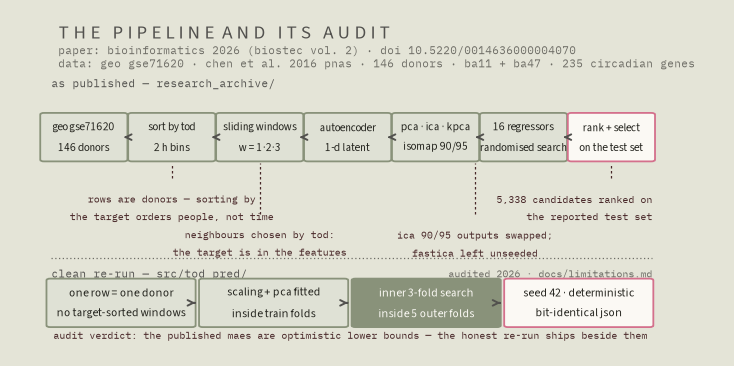
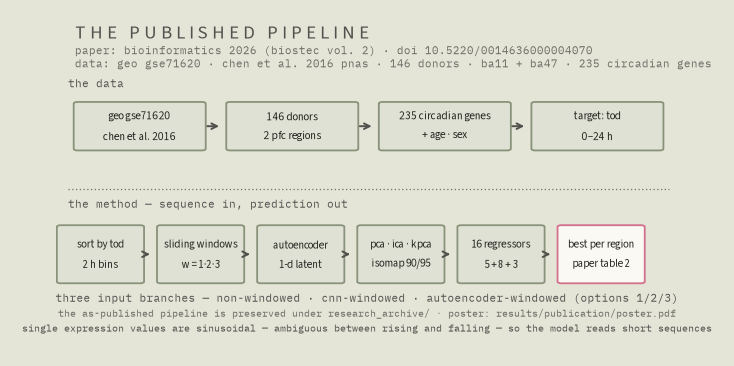
feat: tod-prediction retold as the original REU-to-publication story
Per first-author review: the entry now reports what the team built and
how it led to the BIOSTEC 2026 paper — data, the Python pipeline, the
5,338-candidate sweep, publication with the full citation, poster, and
paper-era figures. Audit framing, re-run numbers, and the v1-retired
grouping are gone from the entry; the paper's Table 2 chart replaces
the audit figures, and the published-pipeline schematic replaces the
failure-site card.

Changed region(s): [[0.03, 0.5109, 0.9591, 0.9317], [0.0599, 0.2705, 0.9292, 0.4508], [0.0599, 0.0601, 0.9591, 0.2404]]

diff --git a/projects.js b/projects.js
@@ -123,44 +123,42 @@ window.portfolioProjects = [
     result: "The takeaway: in small clinical datasets, the evaluation design is the result. Fixing the unit — 102 images that were 28 people — changed the advertised sample size by 3.6×, erased the repo's own 9.6 pp task-complexity claim to exactly 0.000, and turned a 95% feature into a documented artifact, while every architecture upgrade on top (frozen deep features, fusion, mixture of experts) measured as a null at this scale. The honest contribution is not a model; it is a protocol with its receipts — participant-grouped nested CV, hard subject-disjointness assertions, bootstrap uncertainty, and every number traceable to a regenerable artifact.",
   },
   {
-    id: "tod-prediction", title: "Genomic time of death — auditing my own published paper", subtitle: "published at 0.839 h; the clean re-run says 3.683 h — and both ship, labelled.",
+    id: "tod-prediction", title: "Predicting time of death — from REU code to BIOSTEC 2026", subtitle: "146 donors, 235 circadian genes, and the window-to-autoencoder idea that carried it into print.",
     roles: ["data", "ml"], roleLabels: ["DATA SCIENCE", "MACHINE LEARNING", "MLOPS"],
     links: [
       { label: "github repository", href: "https://github.com/oleeveeuh/gr-WPI-UMASS-TOD-Prediction" },
       { label: "published paper (biostec 2026, doi)", href: "https://doi.org/10.5220/0014636000004070" },
       { label: "paper pdf (in this repo)", href: "https://github.com/oleeveeuh/gr-WPI-UMASS-TOD-Prediction/blob/main/results/publication/BIOINFORMATICS_2026_398_CR.pdf" },
+      { label: "research archive (as-published pipeline)", href: "https://github.com/oleeveeuh/gr-WPI-UMASS-TOD-Prediction/tree/main/research_archive" },
     ],
     previewImage: "assets/tod-prediction-method-schematic.png",
-    previewAlt: "schematic of the as-published pipeline — geo donors sorted by time of death into sliding windows, an autoencoder per window, dimensionality reduction, sixteen regressors, and selection on the reported test set — with wine annotations marking the audited failure sites, above a second band showing the leakage-free re-run: one row per donor, preprocessing fitted inside training folds, a three-fold search inside five outer folds, and a deterministic seed",
+    previewAlt: "schematic of the published pipeline: geo donor data for 146 donors split into ba11 and ba47 with 235 circadian genes plus age and sex and time of death in hours as the target, then sorted by time of death into two-hour bins, cut into sliding windows of three, compressed by an autoencoder to a one-dimensional latent, reduced by pca, ica, kpca or isomap, and regressed by sixteen models down to the best configuration per region",
     technologyGroups: [
-      { v1: true, label: "retired — the as-published pipeline, preserved under research_archive/", skills: ["R (tidyverse wrangling)", "Python", "PyTorch (skorch)", "TensorFlow (CNN variants)", "XGBoost", "scikit-learn", "FastICA", "Excel result workbooks"] },
-      { label: "DATA SCIENCE", skills: ["Python", "pandas", "NumPy", "Matplotlib", "GEO GSE71620 donor data", "235-gene circadian panel", "leakage audit (docs/LIMITATIONS.md)"] },
-      { label: "MACHINE LEARNING", skills: ["scikit-learn", "Ridge", "RandomForest", "ExtraTrees", "AdaBoost", "HistGradientBoosting", "nested CV (5 outer × 3 inner)", "RandomizedSearchCV", "PCA inside folds", "windowed autoencoder (published; audited as the leak)"] },
-      { label: "MLOPS", skills: ["GitHub Actions CI", "pytest leakage guards", "seed-42 determinism", "JSON result artifacts", "CITATION.cff", "MIT license"] },
+      { label: "DATA SCIENCE", skills: ["Python", "pandas", "NumPy", "Matplotlib", "R (tidyverse wrangling)", "GEO GSE71620 donor data", "235-gene circadian panel"] },
+      { label: "MACHINE LEARNING", skills: ["scikit-learn", "PyTorch (skorch)", "TensorFlow (CNN variants)", "XGBoost", "autoencoder window encoding", "LSTM · CNN · MLP", "PCA · ICA · KPCA · Isomap", "RandomizedSearchCV", "16-regressor sweep"] },
+      { label: "MLOPS", skills: ["Excel result workbooks", "find_best_models ranking", "paper-era result figures"] },
     ],
     year: "PUBLISHED · 2026",
-    summary: "A published BIOSTEC 2026 paper predicted time of death from circadian gene expression at 0.839 h (BA11) / 1.227 h (BA47) MAE. The 2026 audit I ran while preparing the repository for public review found the validation leaked — windows over donors sorted by the target, 5,338 candidates ranked on the reported test set — so I rebuilt the evaluation without it: nested CV, seed 42, and a best of 3.683 / 4.044 h. Both result sets ship in the repo, labelled as what they are.",
+    summary: "An NSF REU summer asked whether circadian gene expression in postmortem brain can timestamp a sample. The pipeline we built — TOD-sorted windows, an autoencoder, four dimensionality-reduction methods, sixteen regressors — put the paper's temporal encoding at 0.839 h (BA11) / 1.227 h (BA47) MAE and became a BIOSTEC 2026 paper, pp. 704–715. The as-published pipeline, the result workbooks, the poster, and the paper all ship in the repository.",
     story: [
       { k: "the question · where this started", t: "can a transcriptome carry a timestamp?" },
-      { p: "Gene expression runs on a circadian clock, so in principle a postmortem tissue sample carries its own timestamp — and time of death is exactly the kind of label most public genomic datasets never record. The question looked answerable: 146 public donors, two prefrontal-cortex regions, 235 circadian genes (Chen et al. 2016, GEO GSE71620). I first-authored the paper that answered yes — 0.839 h MAE at the hourly scale for the headline model (BIOSTEC 2026). The obstacle arrived the same year the paper did, and it was mine: while preparing the repository for public review I audited my own pipeline, and the validation turned out to leak in four places. The chapters follow the audit's forks: what the paper actually measured (chapter 00), where the validation leaked (chapter 01), what a clean protocol scores on the same data (chapter 02), and what would move the honest number from here (chapter 03)." },
-      { k: "chapter 00 · the paper (biostec 2026)", t: "what the paper built" },
-      { p: "The paper: Liau, Slosser, Betancourt, Liu, Ngan, Fu, Logan & Oruganty (2026), \"Using Machine Learning Approaches for Predicting Time of Death of Human Postmortem Samples Based on Transcriptomic Data\", Proceedings of BIOSTEC 2026 — Volume 2: BIOINFORMATICS, SciTePress, pp. 704–715, doi 10.5220/0014636000004070 (the PDF ships in this repo at results/publication/). Its method treated the cohort as a pseudo-multivariate time series: sort the 146 donors of each brain region by time of death, cut sliding windows of w = 1·2·3 neighbouring rows, compress each window to a one-dimensional latent with an autoencoder, reduce dimensions (PCA, ICA, KPCA or Isomap at 90 or 95% variance), and regress with 16 models." },
-      { p: "The search was wide — 730 non-temporal, 2,304 CNN-windowed and 2,304 autoencoder-windowed pipeline-model candidates (paper §4.3) — and the headline was 0.839 h MAE for Extra Trees on BA11 and 1.227 h for AdaBoost on BA47, hourly scale (paper Table 2, transcribed in src/tod_pred/authoritative.py and checkable via scripts/verify_results.py --check-paper). The paper's central claim lived in the gap: the same models without windows scored 2.425 and 3.274 h, so \"sequentiality\" appeared to buy ≈1.6–2.0 h of accuracy. That gap is exactly where the audit now looks. The paper was published before anyone had audited its validation — and every chapter after this one is the same question asked one layer deeper." },
-      { k: "chapter 01 · the 2026 audit", t: "four ways the validation leaked" },
-      { p: "Finding one, the serious one: the rows are donors, and the pipeline sorted them by the prediction target first (research_archive/data_combining.R line 64, arrange(TOD)). A sliding window of \"neighbouring rows\" is therefore a window over other people, selected because their time of death is closest to the centre donor's — and their gene values encode their TODs, so the target sits in the features by construction. The repo demonstrates the mechanism quantitatively on synthetic data (tests/test_windowing_shapes.py::test_tod_sorted_windows_leak_the_target, using a documented reference implementation of the historical construction). This is the finding that plausibly accounts for most of the sequentiality gap, and docs/LIMITATIONS.md pins it to file and line, as it does every finding in this chapter." },
-      { p: "Finding two: every one of the 5,338 candidates was scored once, on the same test set that produced the headline numbers, and the winners were then ranked on those scores — no nested cross-validation, no untouched holdout (paper Algorithm 1). Thousands of configurations ranked on one test set bias the best-reported number upward even before anything leaks. Finding three: the train/test split was positional within 2-hour TOD bins, so test donors sat systematically at the high-TOD edge of every bin. Finding four, the smaller defects: ICA's 90/95 variance outputs were written to swapped filenames and FastICA was left unseeded — irreproducible run-to-run. The audit also records what the old pipeline got right: normalisation, the autoencoder, and PCA/ICA were all fitted on training data only. None of this changes what the paper reported — the transcription in this repo is faithful; it changes what the numbers mean: optimistic lower bounds, not expected accuracy." },
-      { img: "assets/tod-prediction-method-schematic.png", caption: "how the two halves of this project work. top band — the as-published pipeline: donors sorted by time of death into sliding windows, an autoencoder per window, dimensionality reduction, sixteen regressors, and ranking on the reported test set; the wine annotations are the audit's failure sites (docs/limitations.md). bottom band — the 2026 re-run: one row per donor, no target-sorted windows, preprocessing fitted inside training folds, a 3-fold search inside 5 outer folds, deterministic seed 42.", alt: "schematic of the published pipeline with wine failure annotations at the tod sort, the cross-donor windows, the swapped ica outputs, and the test-set ranking, above the clean protocol band of per-donor rows, fold-local preprocessing, nested cross-validation, and deterministic seed" },
-      { k: "chapter 02 · the clean re-run", t: "what survives without the leak" },
-      { p: "The re-run drops the window and autoencoder machinery entirely — by design, because a within-donor window cannot exist in this dataset (one sample per donor). src/tod_pred/ implements the clean protocol: one row = one donor, no target-informed ordering, scaling and PCA fitted inside training folds only, model + hyperparameter selection in an inner 3-fold randomised search (12 candidates), five outer test folds touched exactly once per model, seed 42 — re-running produces bit-identical JSON (results/leakage_free/)." },
-      { p: "Under that protocol the honest numbers are: Ridge 3.683 ± 0.544 h MAE on BA11 and 4.044 ± 0.151 h on BA47, against a predict-the-mean baseline of 4.881 ± 0.318 h (mean ± SD over the five outer folds, n = 146 donors per region; results/leakage_free/ba11_nested_cv_results.json and ba47_nested_cv_results.json). The rest of the family lands between 3.82 and 4.24 h — a real circadian signal, worth 0.8–1.2 h over the mean, and nothing like sub-hour accuracy. Each region takes ~90 seconds on CPU." },
-      { img: "assets/tod-prediction-leakage-gap.png", caption: "the headline, before and after (lower is better). published table 2 maes — lstm 2.425 / 3.274 h, and the paper's autoencoder-windowed winners 0.839 h (ba11, extra trees) and 1.227 h (ba47, adaboost) — against the leakage-free re-run's best model, ridge at 3.683 h (ba11) and 4.044 h (ba47), mean ± sd over five outer folds, n = 146 donors per region. published rows are point estimates from a single reported split, so they carry no whiskers. sources: paper table 2 via src/tod_pred/authoritative.py (verified by scripts/verify_results.py --check-paper) and results/leakage_free/*.json.", alt: "two bar panels comparing published maes against the leakage-free ridge re-run for ba11 and ba47, with standard-deviation whiskers on the re-run and baseline bars" },
-      { img: "assets/tod-prediction-clean-models.png", caption: "the leakage-free family in full (lower is better): ridge 3.683 ± 0.544 h (ba11) and 4.044 ± 0.151 h (ba47) leads a flat field — random forest, extra trees, adaboost and hist gradient boosting all land between 3.82 and 4.24 h — against the predict-the-mean baseline 4.881 ± 0.318 h (band). dots are the individual outer-fold maes. sources: results/leakage_free/ba11_nested_cv_results.json, ba47_nested_cv_results.json (nested cv 5×3, 12 search candidates, seed 42).", alt: "two bar panels showing the five leakage-free models plus the mean-baseline band per region, with the five outer-fold maes drawn as dots" },
-      { p: "One boundary the repo is deliberately careful about: the re-run does not re-evaluate the paper's models under a clean protocol — it cannot tell us what Extra Trees or the autoencoder would have scored without the leaks. What it tells us is what straightforward models achieve on this dataset when nothing leaks. Even the paper's non-windowed LSTM row (2.425 h, Table 2) sits below the clean Ridge — consistent with the positional split and the test-set selection bias doing damage beyond the windows." },
-      { k: "chapter 03 · open path", t: "what would move the honest number" },
-      { p: "The open path is the paper's own future-work list plus the audit's: probabilistic models that represent uncertainty; external validation on additional circadian-expression datasets and tissues; and a leakage-free redesign of the sequentiality idea itself — subject-grouped validation, honest holdouts. The scientific question underneath is still live: does neighbourhood structure in a cohort carry timestamp information beyond one donor's own expression? The paper answered it with windows over other people; answering it honestly needs either a redesign this dataset can't support or a dataset with repeated samples per donor." },
-      { p: "The repo is built to be checked rather than believed: the paper's numbers live in one module with a transcription checker (scripts/verify_results.py --check-paper), the clean workflow is deterministic and CPU-only, and the pytest suite fails on target-informed features or any fitted statistic seeing a non-training row. Both result sets ship labelled as what they are — the paper's, and the post-publication re-run's — and the README refuses to let a reader quote one as the other. That labelling discipline is the part I would keep even if the models change." },
+      { p: "Gene expression follows circadian rhythms, so a postmortem tissue sample plausibly carries its own time-of-death stamp — and time of death is exactly the label most public genomic datasets never record. The summer-2024 REU question: can expression alone in postmortem brain recover it? Chen et al. 2016 had published exactly the right data (PNAS 113(1):206–211, public on GEO as GSE71620): 146 donors, two prefrontal-cortex regions, 235 circadian genes. The obstacle was conceptual: circadian genes are sinusoidal, so a single expression value is ambiguous — the same value sits on the rising and the falling edge of the rhythm. The answer we built around that obstacle was sequence: hand the model short windows of neighbouring rows and let an autoencoder compress each window before any regression. The chapters follow the build — the data (01), the Python pipeline (02), the sweep (03), the road to print (04) — and every chapter after this one is the same question asked one layer deeper: does the data hold a timestamp, does the representation expose it, does the model read it, and does it hold up in print?" },
+      { k: "chapter 01 · summer 2024 · the data", t: "146 donors, two brain regions" },
+      { p: "The dataset came from Chen et al. 2016 (PNAS 113(1):206–211), public on GEO as GSE71620: 146 donors, each sampled in two regions of orbital prefrontal cortex (BA11 and BA47) — 292 samples in all, mean age 50.7 — with 235 circadian-gene expression values per sample plus age and sex, and time of death in hours as the target (docs/DATA.md). The wrangling — joining the phenotype table to expression values, one row per donor sample, per region — ran in R (data_combining.R, train_test_splitting.R) and was led by the collaborators; my Python side started where those CSVs ended. The handoff is still visible in the repo: data/processed/BA11_data_6_17_2024.csv and BA47_data_6_17_2024.csv, one dated file per region, and every later number in the project traces back to them." },
+      { k: "chapter 02 · the pipeline", t: "the python side i built" },
+      { p: "The shared modeling infrastructure was my individual contribution: read_train.py loaded a processed CSV, ran the train/test split and normalisation, and pushed every model through one training-and-evaluation harness that wrote its metrics out; model_definitions.py held the PyTorch models — autoencoder, CNN, LSTM, MLP — wired into scikit-learn via skorch, with TensorFlow variants of the CNN alongside; and the option_1/2/3 runners covered the three input branches: non-windowed rows, CNN-windowed rows, and autoencoder-windowed rows. DR_code/ wrapped the four dimensionality-reduction methods — PCA, ICA, KPCA, Isomap — each fitted on the training split only, then applied to test." },
+      { p: "The idea the paper is built on sits in the windowed branches: sort each region's donors by time of death and treat the ordering as a pseudo-multivariate time series (paper §2 and §3.1), so that a window of w = 1·2·3 neighbouring rows carries local sequence context a single sinusoidal value cannot. The autoencoder compresses each window to a one-dimensional latent, and that latent — not the raw window — feeds the regressor. Window size, DR method, variance level (90 or 95%) and normalisation (min-max or log) became the grid the next chapter walks." },
+      { k: "chapter 03 · the sweep", t: "5,338 candidates later" },
+      { p: "Sixteen regressors — five single, eight ensemble, three deep learning — ran across the three branches: 730 non-temporal pipeline-model candidates, 2,304 CNN-windowed and 2,304 autoencoder-windowed (paper §4.3). Each configuration trained with a randomised search and wrote its metrics into the project's Excel result workbooks — 21 of them, still tracked in results/sheets/. The aggregation side was mine too: read_output_write_to_excel.py on the way in, and find_best_models.py on the way out, scraping the workbooks and ranking every configuration to name the winners." },
+      { p: "The paper's headline (Table 2, hourly scale) rewarded the sequence bet: temporal encoding via AutoEncoder won both regions — Extra Trees with Isomap-90 and min-max-80 at 0.839 h MAE on BA11, AdaBoost with PCA-95 and min-max-70 at 1.227 h on BA47 — against 2.425 / 3.274 h for the best non-temporal LSTM and 0.945 / 1.757 h for the CNN-windowed branch. On BA11, the paper's method crossed under one hour. The paper-era prediction plots (results/figures/) still show the winning configurations' predicted-versus-actual fits; the BA11 panel's STD annotation, 0.996, matches Table 2's StdErr for the same model." },
+      { img: "assets/tod-prediction-paper-table2.png", caption: "the paper's own comparison, as reported in table 2 (pdf p. 11), hourly scale — lower is better. best non-temporal lstm: 2.425 h (ba11) / 3.274 h (ba47). best cnn-windowed configuration: 0.945 / 1.757 h. the paper's autoencoder-windowed method: 0.839 h (ba11 — extra trees with isomap-90 and min-max-80) and 1.227 h (ba47 — adaboost with pca-95 and min-max-70). n = 146 donors per region. source: src/tod_pred/authoritative.py, checkable via scripts/verify_results.py --check-paper.", alt: "two bar panels of hourly-scale mae per input branch — non-temporal lstm, best cnn-windowed, and the paper's autoencoder-windowed method — for ba11 and ba47, with the autoencoder bars highlighted" },
+      { img: "assets/tod-prediction-paper-era-ba11.png", caption: "the paper-era prediction plot for ba11 (results/figures/ba11_plot.png, produced during the research): predicted versus actual tod for the option branches. the winning configuration — extra trees with isomap-90, min-max-80 — is the second row's left panel; its std annotation, 0.996, matches table 2's stderr for the same model. a historical output kept as-is — illustrative, not regenerated.", alt: "grid of predicted-versus-actual scatter panels for the ba11 option branches with std annotations, one panel per pipeline configuration" },
+      { k: "chapter 04 · publication", t: "no time (to die), in print" },
+      { p: "The summer ended with a WPI REU poster — \"No Time (To Die): Machine Learning for Predicting Time of Death\" — and the work kept going after the program did: the team took the project through the BIOSTEC review cycle, and it landed in the proceedings. The paper: Liau, Slosser, Betancourt, Liu, Ngan, Fu, Logan & Oruganty (2026), \"Using Machine Learning Approaches for Predicting Time of Death of Human Postmortem Samples Based on Transcriptomic Data\", Proceedings of the 19th International Joint Conference on Biomedical Engineering Systems and Technologies (BIOSTEC) — Volume 2: BIOINFORMATICS, SciTePress, pp. 704–715, doi 10.5220/0014636000004070. Funded by NSF REU Site Grant 2349370; the PDF ships in the repository (results/publication/)." },
+      { img: "assets/tod-prediction-poster-preview.png", caption: "the reu poster (results/publication/poster.pdf): motivation, data provenance, the autoencoder method, and the model-development pipeline side by side. its three result blocks report the same numbers the paper's table 2 carries — ba11 0.945 / 0.839 h and ba47 1.757 / 1.227 h for the cnn-windowed and autoencoder-windowed branches; the non-temporal baseline appears as 2.424 h on the poster and 2.425 h in the paper's table, the same value rounded differently.", alt: "the reu research poster: motivation and data provenance panels, the autoencoder method diagram, the model development pipeline, and predicted-versus-actual result panels with mean absolute error annotations" },
+      { p: "My part in this chapter was writing and revising the manuscript — the modeling sections grew out of the same numbers the workbooks held — and, later, curating the repository this entry links to: the as-published pipeline is preserved unchanged under research_archive/, Python pins and R scripts exactly as they ran. Every number in this note traces to a frozen artifact: the paper PDF and poster, the transcribed table (src/tod_pred/authoritative.py, checkable via scripts/verify_results.py --check-paper), the 21 result workbooks, and the two processed data files." },
     ],
-    result: "The lesson I keep: a published result is a claim about the world, and the validation design decides what kind of claim it is. Auditing my own paper after publication cost the headline its 0.839 h and bought back a repository where the paper, the audit, and the honest re-run sit side by side, each labelled, every number traceable to a frozen artifact. What remains open is the honest version of the original question — and the next paper from this line starts from the clean protocol, not from the leak.",
+    result: "The takeaway I keep from this one: a good student-research question is one where the data already exists and the obstacle is conceptual — the sinusoid ambiguity is what made \"just regress on expression\" a non-starter, and the window-to-autoencoder bet was small, architectural, and load-bearing: it carried the paper's headline on both regions. One NSF site grant, a student team across four colleges, two advisors, and a pipeline that went from a summer repository through peer review to pp. 704–715. The repository keeps the whole arc frozen where it happened: the as-published code, the result workbooks, the poster, and the paper.",
   },
   {
     id: "agent-evaluation", title: "Evaluating tool-using agents", subtitle: "A practical framework for measuring reliable task completion.",
